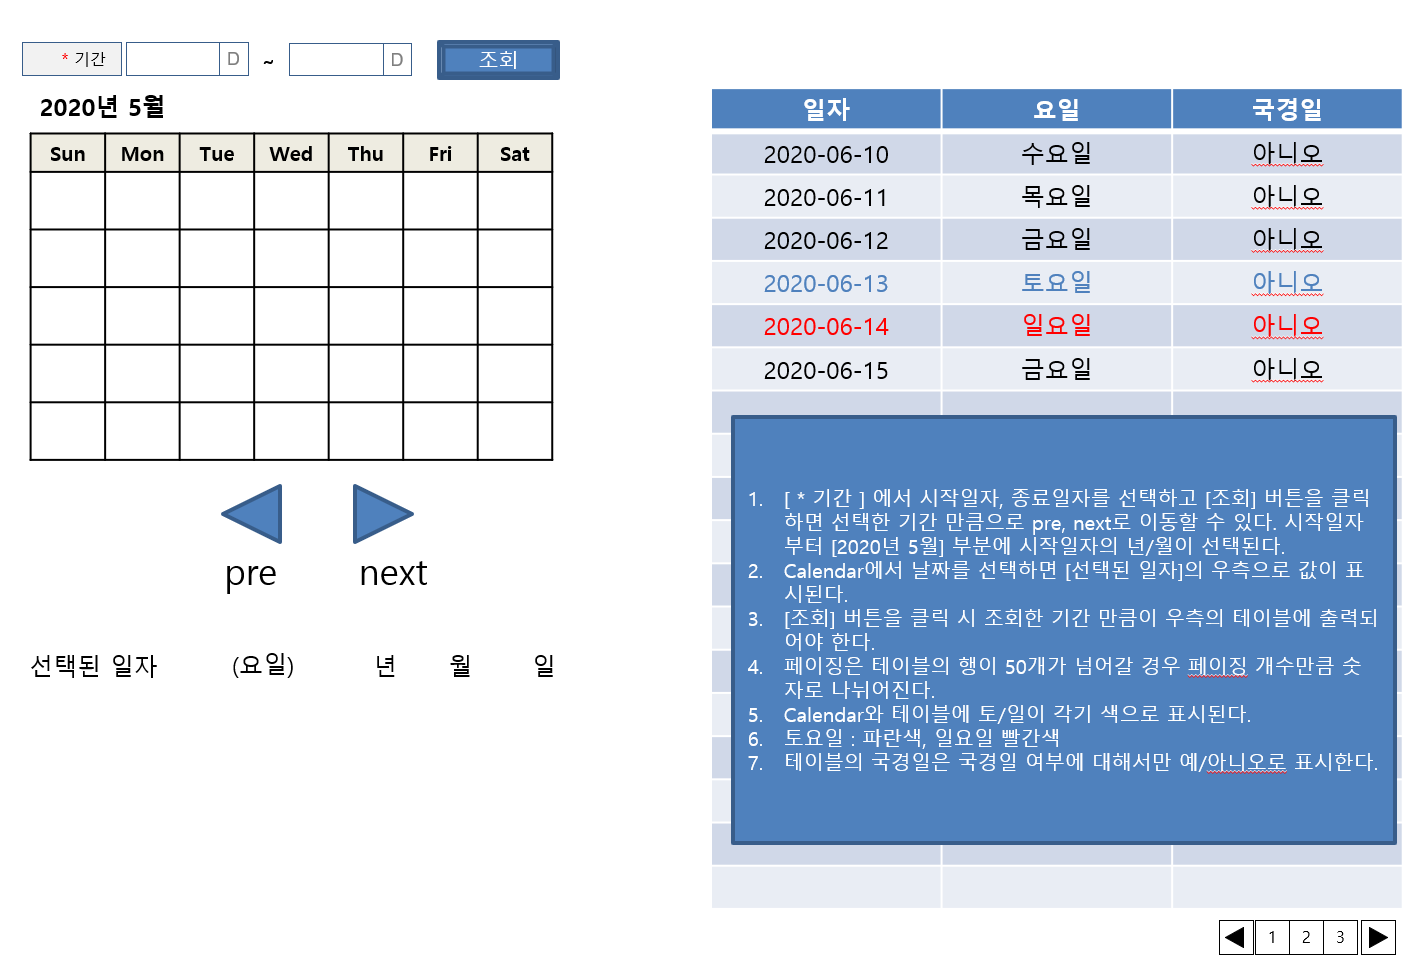
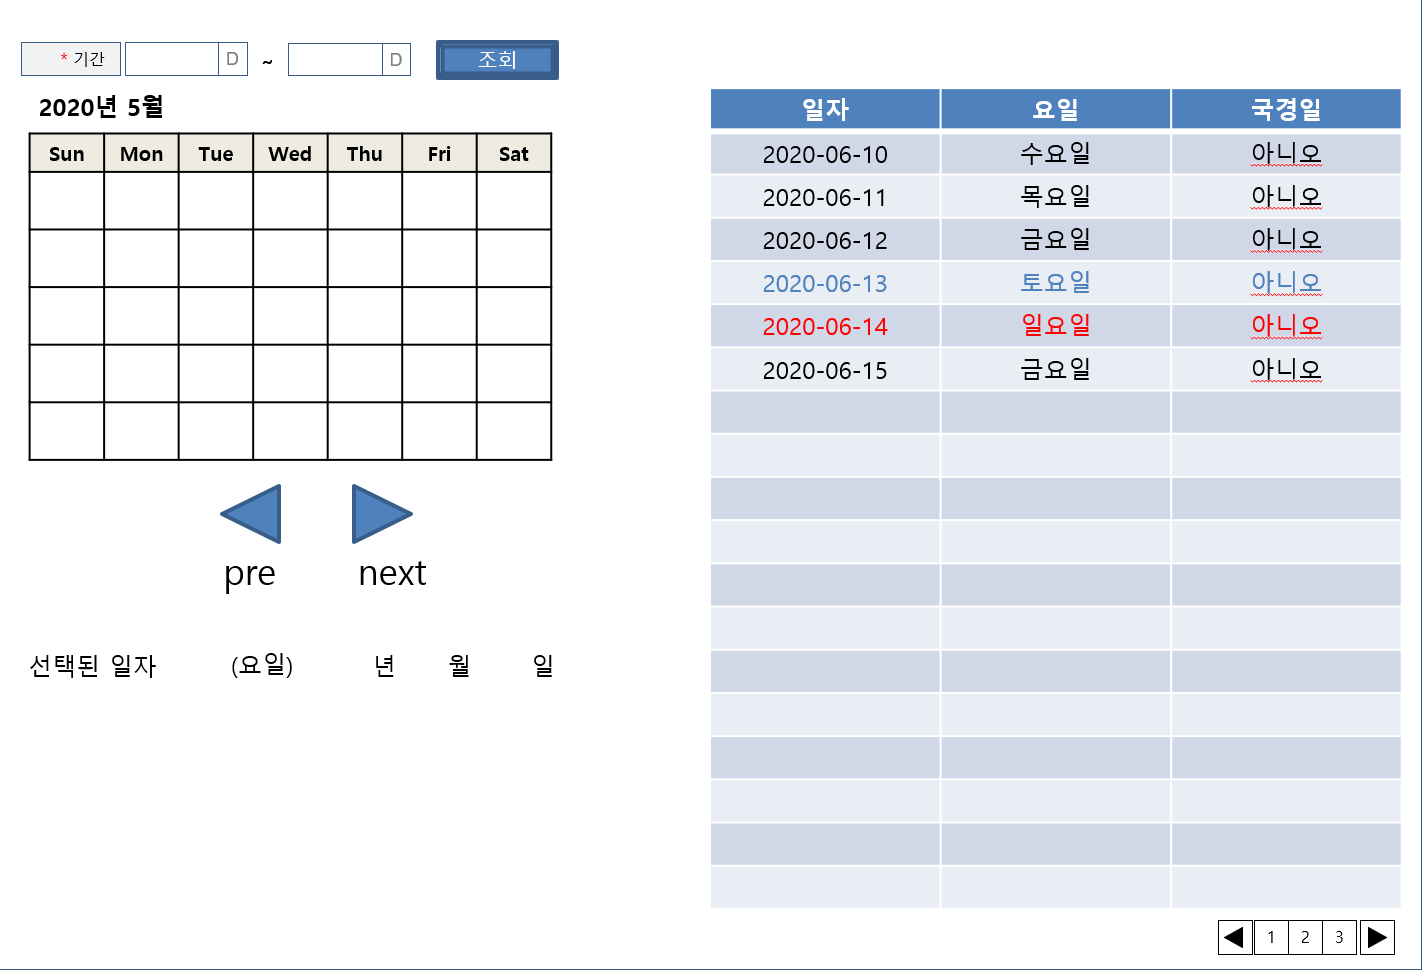
calendar 기본 과제

diff --git a/project/calendar/README.md b/project/calendar/README.md
@@ -1,0 +1,11 @@
+# Calendar 기본 과제 
+
+![Calendar](https://github.com/keepinmindsh/tech-course/blob/main/project/calendar/calendar_example.png)
+
+- [ * 기간 ] 에서 시작일자, 종료일자를 선택하고 [조회] 버튼을 클릭하면 선택한 기간 만큼으로 pre, next로 이동할 수 있다. 시작일자부터 [2020년 5월] 부분에 시작일자의 년/월이 선택된다.
+- Calendar에서 날짜를 선택하면 [선택된 일자]의 우측으로 값이 표시된다.
+- [조회] 버튼을 클릭 시 조회한 기간 만큼이 우측의 테이블에 출력되어야 한다.
+- 페이징은 테이블의 행이 50개가 넘어갈 경우 페이징 개수만큼 숫자로 나뉘어진다.
+- Calendar와 테이블에 토/일이 각기 색으로 표시된다.
+  - 토요일 : 파란색, 일요일 빨간색
+- 테이블의 국경일은 국경일 여부에 대해서만 예/아니오로 표시한다. 
